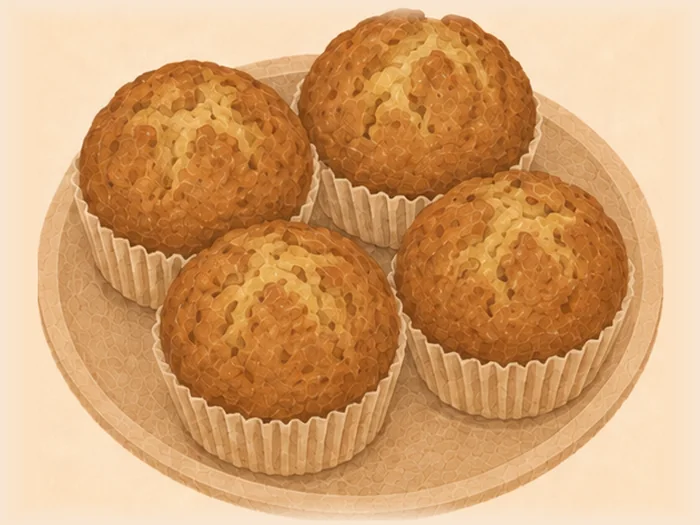
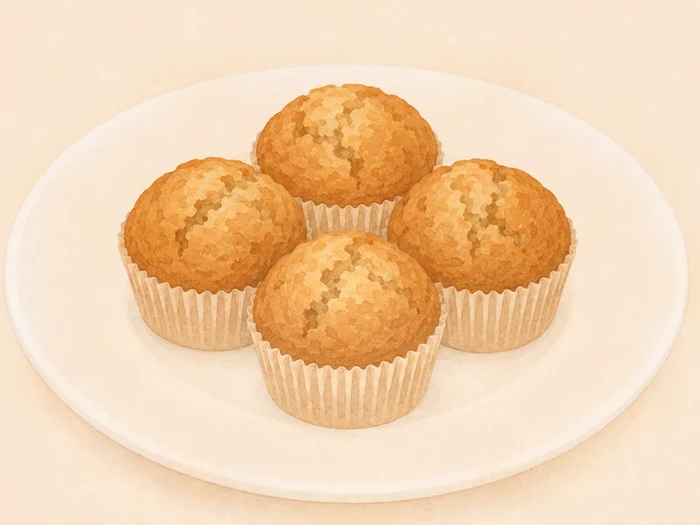
r18 拿掉兩處重複的括號註；切進 r1 / r4 / r9 的新圖
括號註刪掉「牛胸肉（차돌박이）」和「淘米水（洗米第二次的水留下來）」：
前者在韓文模式會變成 차돌박이（차돌박이），後者跟備料那行講同一件事。
NOTE 那兩條也一併移除。板豆腐的「約 150g」留著 —— 半盒到底多少，那一句有資訊。

r1 紅燒雞、r4 香蕉瑪芬、r9 雞腿炒麵切進新生成的白盤版。
r4 和 r9 原本還是 08-16 的初版（米色編織盤），是這批唯二沒換過的。

diff --git a/strings.js b/strings.js
@@ -746,8 +746,6 @@ const STR = {
 
   /* ── 份量括號註 ── */
   'NOTE.也可用整隻雞切塊；本食譜採這個組合，因為我就愛': { zh: '也可用整隻雞切塊；本食譜採這個組合，因為我就愛', ko: '통닭을 토막 내서 써도 된다. 이 조합인 건 그냥 내가 좋아해서.' },
-  'NOTE.차돌박이': { zh: '차돌박이', ko: '차돌박이' },
-  'NOTE.洗米第二次的水留下來': { zh: '洗米第二次的水留下來', ko: '두 번째 쌀뜨물' },
   'NOTE.約 150g': { zh: '約 150g', ko: '약 150g' },
   'NOTE.推薦昆布魚乾或牛骨風味': { zh: '推薦昆布魚乾或牛骨風味', ko: '다시마·멸치나 사골 육수를 추천.' },
   'NOTE.醃牛腩 1.5 茶匙、湯底 1 湯匙，試味再補': { zh: '醃牛腩 1.5 茶匙、湯底 1 湯匙，試味再補', ko: '양지 밑간 1.5작은술, 국물 1큰술. 맛보고 더 넣는다.' },

diff --git a/index.html b/index.html
@@ -774,8 +774,8 @@ ol.steps li::before {
 </div>
 
 <!-- 改完 recipes.js 就把 v 往上加一號，不然瀏覽器會一直吃舊的快取 -->
-<script src="strings.js?v=5"></script>
-<script src="recipes.js?v=85"></script>
+<script src="strings.js?v=4"></script>
+<script src="recipes.js?v=86"></script>
 <script>
 /* ══════════════════════════════════════════════
    慢寶 · 骨架
@@ -783,7 +783,7 @@ ol.steps li::before {
    ══════════════════════════════════════════════ */
 
 /* 素材版本。換過圖就 bump 一次，否則瀏覽器會一直用舊的快取 */
-const ASSETS = '56';
+const ASSETS = '57';
 const asset = p => p + '?v=' + ASSETS;
 
 const $ = (s, el = document) => el.querySelector(s);

diff --git a/recipes.js b/recipes.js
@@ -2233,12 +2233,12 @@ const RECIPES = [
       [
         "牛胸肉",
         150,
-        "g（차돌박이）"
+        "g"
       ],
       [
         "淘米水",
         400,
-        "ml（洗米第二次的水留下來）"
+        "ml"
       ],
       [
         "韓式大醬",

diff --git a/語系總表.md b/語系總表.md
@@ -5,7 +5,7 @@
 > 手寫的對照表隔天就會跟程式分岔 —— 2026-08-16 踩過：一份 v13 的表跟 app 差了 8 處，
 > 全部是「表是舊快照、app 已經改過」。所以這份的唯一真相是 `strings.js`。
 
-共 **737 個字串**。缺韓文的有 **0** 個（表裡標 `—`）。
+共 **734 個字串**。缺韓文的有 **0** 個（表裡標 `—`）。
 
 ---
 
@@ -112,7 +112,7 @@ apply_locale.py ────────────────┘  寫回 stri
 | `E1` | 找不到這道菜。我也沒聽過。 | 이건 없네. 나도 처음 들어. |
 | `E2` | 今天的菜單還沒定。那我先睡。 | 오늘 메뉴 아직 안 정했네. 그럼 난 먼저 잘게. |
 
-### 介面字串（34）
+### 介面字串（33）
 
 `strings.js`
 
@@ -126,7 +126,6 @@ apply_locale.py ────────────────┘  寫回 stri
 | `U6` | 完全沒想法 | 아무 생각도 없어 |
 | `U7` | 回答三個問題，慢寶幫你挑 | 질문 세 개만 답하면 늘보가 골라 줄게 |
 | `U8` | 食譜牆 | 레시피 |
-| `U9` | 搜尋名稱、菜系、標籤… | 이름・종류・태그 검색… |
 | `U10` | 時間 | 시간 |
 | `U11` | 難度 | 난이도 |
 | `U12` | 幾人份 | 인분 |
@@ -944,15 +943,13 @@ apply_locale.py ────────────────┘  寫回 stri
 | `COUNTER.義式乾辣椒\|根` | 義式乾辣椒\|根 | 개 |
 | `COUNTER.香菇\|朵` | 香菇\|朵 | 개 |
 
-### 份量括號註（38）
+### 份量括號註（36）
 
 `strings.js`
 
 | ID | 中文 | 한국어 |
 |---|---|---|
 | `NOTE.也可用整隻雞切塊；本食譜採這個組合，因為我就愛` | 也可用整隻雞切塊；本食譜採這個組合，因為我就愛 | 통닭을 토막 내서 써도 된다. 이 조합인 건 그냥 내가 좋아해서. |
-| `NOTE.차돌박이` | 차돌박이 | 차돌박이 |
-| `NOTE.洗米第二次的水留下來` | 洗米第二次的水留下來 | 두 번째 쌀뜨물 |
 | `NOTE.約 150g` | 約 150g | 약 150g |
 | `NOTE.推薦昆布魚乾或牛骨風味` | 推薦昆布魚乾或牛骨風味 | 다시마·멸치나 사골 육수를 추천. |
 | `NOTE.醃牛腩 1.5 茶匙、湯底 1 湯匙，試味再補` | 醃牛腩 1.5 茶匙、湯底 1 湯匙，試味再補 | 양지 밑간 1.5작은술, 국물 1큰술. 맛보고 더 넣는다. |
